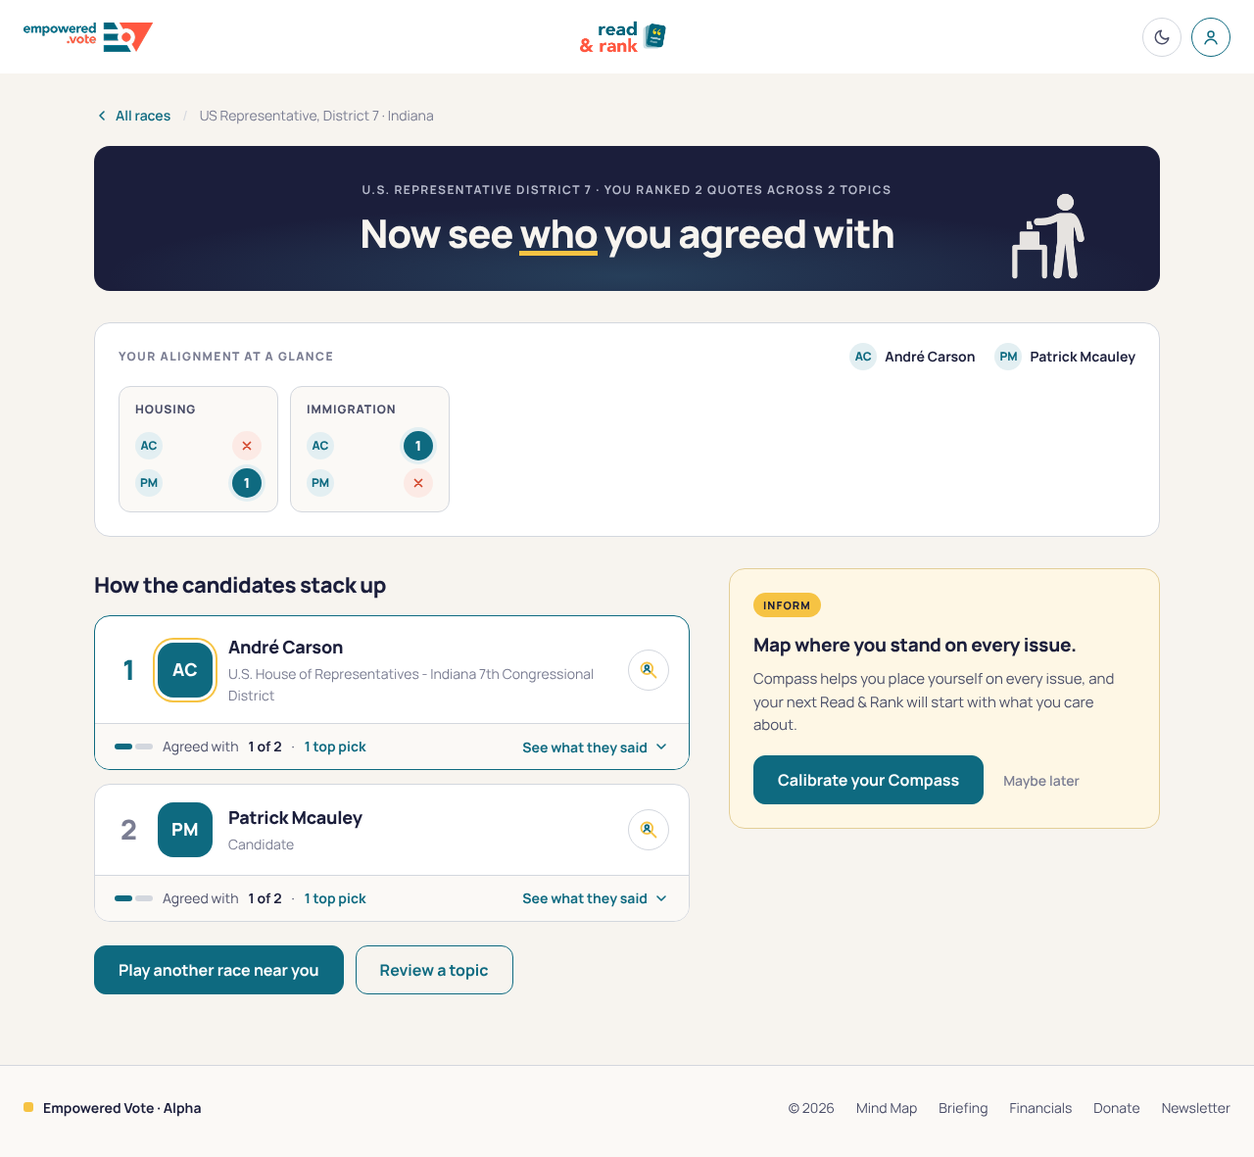
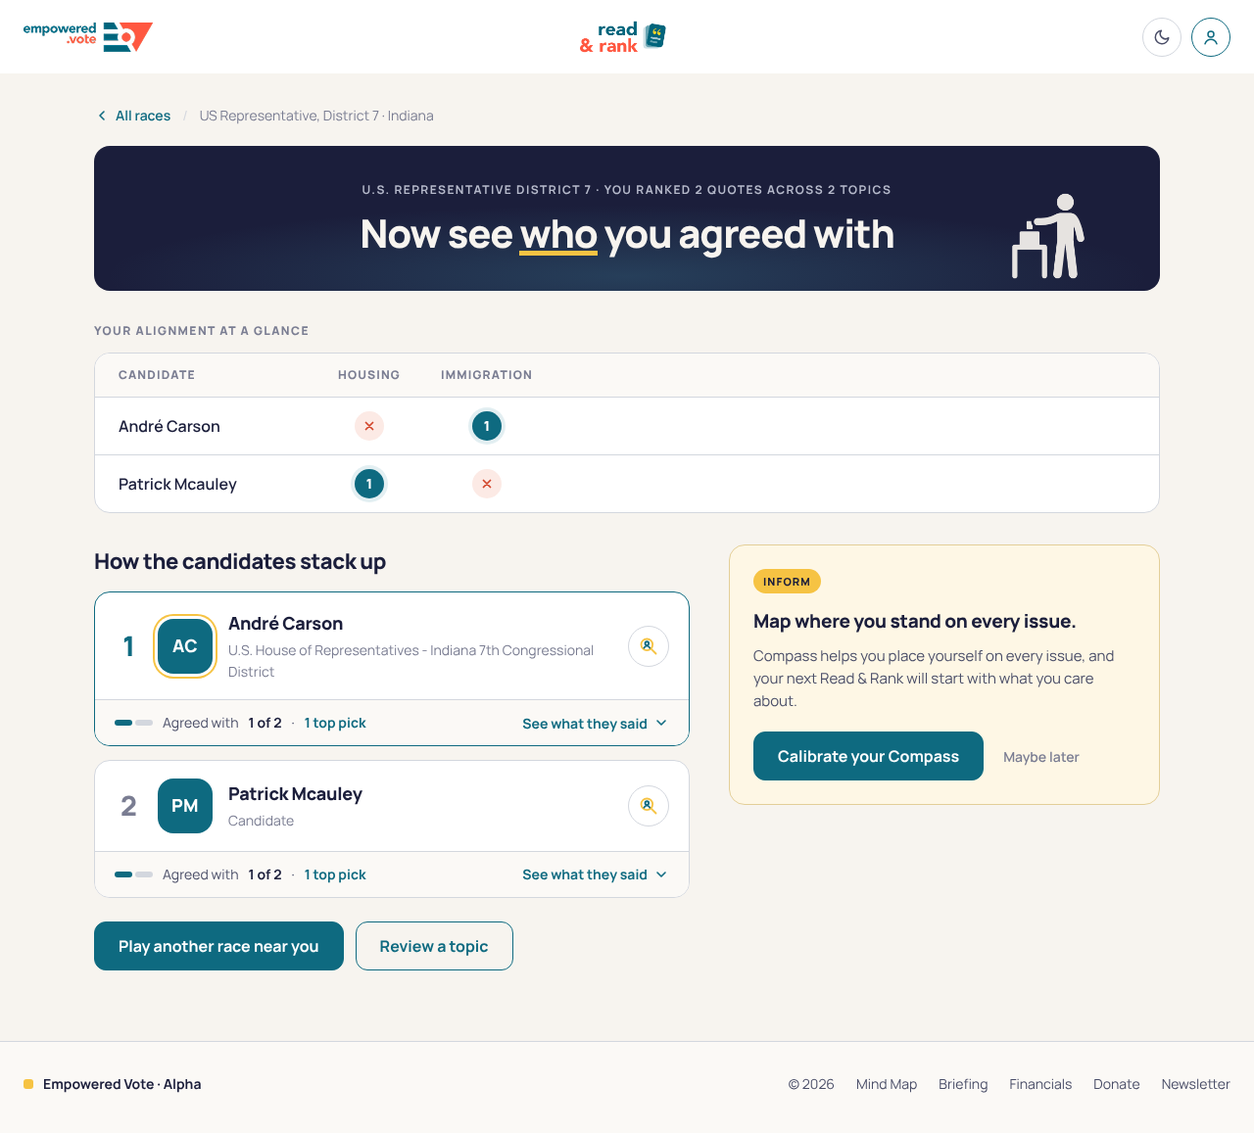
docs: alignment-at-a-glance as a full-width table on the ballot screen
Claude-Session: https://claude.ai/code/session_01DwfCu4GsxXBrSLCryEySUF

diff --git a/docs/design/readrank-ux-redesign/prototype/index.html b/docs/design/readrank-ux-redesign/prototype/index.html
@@ -1053,19 +1053,30 @@
   #s-ballot h2.title { margin: 40px 0 14px; font-size: 22px; font-weight: 800; letter-spacing: -.02em; }
 
   
-  #s-ballot .glance { margin-top: 32px; background: var(--surface); border: 1px solid var(--line); border-radius: 16px; padding: 20px 24px 24px; }
-  #s-ballot .glance-head { display: flex; flex-wrap: wrap; align-items: center; justify-content: space-between; gap: 10px 24px; margin-bottom: 16px; }
-  #s-ballot .glance .label { margin: 0; }
-  #s-ballot .glance-key { list-style: none; margin: 0; padding: 0; display: flex; flex-wrap: wrap; gap: 8px 20px; font-size: 14px; font-weight: 700; }
-  #s-ballot .glance-key li { display: flex; align-items: center; gap: 8px; min-width: 0; }
-  #s-ballot .glance-grid { list-style: none; margin: 0; padding: 0; display: grid; grid-template-columns: repeat(auto-fill, minmax(150px, 1fr)); gap: 12px; }
-  #s-ballot .topic-tile { min-width: 0; background: var(--surface-2); border: 1px solid var(--line); border-radius: 12px; padding: 14px 16px; }
-  #s-ballot .topic-tile h3 { margin: 0 0 12px; font-size: 12px; font-weight: 800; letter-spacing: .08em; text-transform: uppercase; color: var(--ink-2); overflow-wrap: anywhere; }
-  #s-ballot .topic-tile ul { list-style: none; margin: 0; padding: 0; display: grid; gap: 8px; }
-  #s-ballot .topic-tile li { display: flex; align-items: center; justify-content: space-between; gap: 8px; }
-  #s-ballot .glance .ini { width: 28px; height: 28px; font-size: 12px; }
-  #s-ballot .topic-tile .mark { width: 30px; height: 30px; }
-  #s-ballot .glance-empty { margin: 0; color: var(--ink-3); font-size: 14px; }
+  #s-ballot .glance { margin-top: 32px; }
+  #s-ballot .glance .label { margin: 0 0 12px; }
+  #s-ballot .glance-wrap { background: var(--surface); border: 1px solid var(--line); border-radius: 16px; overflow: hidden; }
+  #s-ballot .glance-table { width: 100%; border-collapse: collapse; }
+  #s-ballot .glance-table th, #s-ballot .glance-table td { padding: 14px 24px; text-align: left; }
+  #s-ballot .glance-table thead > tr > * { font-size: 12px; font-weight: 800; letter-spacing: .1em; text-transform: uppercase; color: var(--ink-3); line-height: 1.35; border-bottom: 1px solid var(--line); background: var(--surface-2); vertical-align: middle; }
+  #s-ballot .glance-table thead th.topic { text-align: center; width: 120px; padding-inline: 12px; }
+  #s-ballot .glance-table .cand-col { width: 220px; }
+  #s-ballot .glance-table tbody tr + tr > * { border-top: 1px solid var(--line); }
+  #s-ballot .glance-table tbody th { font-weight: 600; font-size: 16px; }
+  #s-ballot .glance-table td { text-align: center; padding-inline: 12px; }
+  #s-ballot .glance-table .fill { width: auto; padding: 0; }
+  #s-ballot .glance-empty { color: var(--ink-3); font-size: 14px; }
+  #s-ballot .glance-table .mark { width: 30px; height: 30px; }
+  
+  #s-ballot .glance-table.stacked thead { position: absolute; width: 1px; height: 1px; overflow: hidden; clip: rect(0 0 0 0); }
+  #s-ballot .glance-table.stacked tbody tr { display: flex; flex-wrap: wrap; align-items: center; gap: 10px 20px; padding: 16px 20px; }
+  #s-ballot .glance-table.stacked tbody tr + tr { border-top: 1px solid var(--line); }
+  #s-ballot .glance-table.stacked tbody tr + tr > * { border-top: 0; }
+  #s-ballot .glance-table.stacked tbody th { flex: 1 0 100%; padding: 0; }
+  #s-ballot .glance-table.stacked td { display: inline-flex; align-items: center; gap: 8px; padding: 0; }
+  #s-ballot .glance-table.stacked td::before { content: attr(data-topic); font-size: 11px; font-weight: 800; letter-spacing: .08em; text-transform: uppercase; color: var(--ink-2); }
+  #s-ballot .glance-table.stacked .fill { display: none; }
+  #s-ballot .glance-table.stacked td.glance-empty::before { content: none; }
   #s-ballot .ini { width: 34px; height: 34px; border-radius: 50%; display: grid; place-items: center; font-size: 13px; font-weight: 800; background: var(--teal-tint); color: var(--teal); flex: none; }
   #s-ballot .mark { display: inline-grid; place-items: center; width: 34px; height: 34px; border-radius: 50%; scale: 0; }
   #s-ballot .reveal.in .mark { animation: pop .4s cubic-bezier(.3,1.6,.5,1) forwards; animation-delay: calc(.6s + var(--d, 0) * 120ms); }
@@ -1169,9 +1180,6 @@
     #s-ballot .inform-actions { grid-column: 1; grid-row: auto; margin-top: 10px; display: flex; flex-wrap: wrap; align-items: center; gap: 10px 16px; }
     #s-ballot .inform .btn { white-space: normal; text-align: center; }
     #s-ballot .end .btn { width: 100%; }
-    #s-ballot .glance { padding: 16px; }
-    #s-ballot .glance-grid { grid-template-columns: repeat(auto-fill, minmax(130px, 1fr)); gap: 10px; }
-    #s-ballot .topic-tile { padding: 12px; }
     #s-ballot footer .wrap { flex-direction: column; align-items: start; }
   }
   @media (prefers-reduced-motion: reduce) {
@@ -2783,17 +2791,18 @@
       </section>
 
       <section class="glance" style="--i:1" aria-labelledby="glance-title">
-        <div class="glance-head">
-          <h2 class="label" id="glance-title">Your alignment at a glance</h2>
-          <ul class="glance-key">
-            <li><span class="ini" aria-hidden="true">AC</span>André Carson</li>
-            <li><span class="ini" aria-hidden="true">PM</span>Patrick Mcauley</li>
-          </ul>
+        <h2 class="label" id="glance-title">Your alignment at a glance</h2>
+        <div class="glance-wrap">
+          <table class="glance-table">
+            <thead>
+              <tr><th scope="col" class="cand-col">Candidate</th><th scope="col" class="topic">Housing</th><th scope="col" class="topic">Immigration</th><td class="fill" aria-hidden="true"></td></tr>
+            </thead>
+            <tbody>
+              <tr><th scope="row">André Carson</th><td data-topic="Housing"><span class="mark no" style="--d:0" role="img" aria-label="Disagreed"><svg width="14" height="14" viewBox="0 0 24 24" fill="none" stroke="currentColor" stroke-width="3" stroke-linecap="round" aria-hidden="true"><path d="M6 6l12 12M18 6L6 18"/></svg></span></td><td data-topic="Immigration"><span class="mark top" style="--d:1" role="img" aria-label="Your number 1 pick">1</span></td><td class="fill" aria-hidden="true"></td></tr>
+              <tr><th scope="row">Patrick Mcauley</th><td data-topic="Housing"><span class="mark top" style="--d:2" role="img" aria-label="Your number 1 pick">1</span></td><td data-topic="Immigration"><span class="mark no" style="--d:3" role="img" aria-label="Disagreed"><svg width="14" height="14" viewBox="0 0 24 24" fill="none" stroke="currentColor" stroke-width="3" stroke-linecap="round" aria-hidden="true"><path d="M6 6l12 12M18 6L6 18"/></svg></span></td><td class="fill" aria-hidden="true"></td></tr>
+            </tbody>
+          </table>
         </div>
-        <ul class="glance-grid">
-            <li class="topic-tile"><h3>Housing</h3><ul><li><span class="ini" aria-hidden="true">AC</span><span class="sr">André Carson: </span><span class="mark no" style="--d:0" role="img" aria-label="Disagreed"><svg width="14" height="14" viewBox="0 0 24 24" fill="none" stroke="currentColor" stroke-width="3" stroke-linecap="round" aria-hidden="true"><path d="M6 6l12 12M18 6L6 18"/></svg></span></li><li><span class="ini" aria-hidden="true">PM</span><span class="sr">Patrick Mcauley: </span><span class="mark top" style="--d:1" role="img" aria-label="Your number 1 pick">1</span></li></ul></li>
-            <li class="topic-tile"><h3>Immigration</h3><ul><li><span class="ini" aria-hidden="true">AC</span><span class="sr">André Carson: </span><span class="mark top" style="--d:2" role="img" aria-label="Your number 1 pick">1</span></li><li><span class="ini" aria-hidden="true">PM</span><span class="sr">Patrick Mcauley: </span><span class="mark no" style="--d:3" role="img" aria-label="Disagreed"><svg width="14" height="14" viewBox="0 0 24 24" fill="none" stroke="currentColor" stroke-width="3" stroke-linecap="round" aria-hidden="true"><path d="M6 6l12 12M18 6L6 18"/></svg></span></li></ul></li>
-        </ul>
       </section>
 
       <div class="layout">
@@ -4183,6 +4192,14 @@
     var LENS = '<svg width="20" height="20" viewBox="0 0 24 24" fill="none" stroke="currentColor" stroke-width="2.2" stroke-linecap="round" stroke-linejoin="round" aria-hidden="true"><circle cx="10" cy="10" r="7" class="lens" stroke="currentColor"/><circle cx="10" cy="8.5" r="2.2"/><path d="M6.5 14c.8-1.6 2-2.4 3.5-2.4s2.7.8 3.5 2.4"/><path d="M15.5 15.5L21 21" class="lens" stroke="currentColor"/></svg>';
     var CHEV = '<svg width="16" height="16" viewBox="0 0 24 24" fill="none" stroke="currentColor" stroke-width="2.4" stroke-linecap="round" stroke-linejoin="round" aria-hidden="true"><path d="M6 9l6 6 6-6"/></svg>';
     function esc(t) { var d = document.createElement('div'); d.textContent = t; return d.innerHTML; }
+    // Stack the alignment table when its topic columns don't fit the width (no sideways scrolling).
+    function fitGlance() {
+      var wrap = ballot.querySelector('.glance-wrap'), table = wrap.querySelector('.glance-table');
+      if (!wrap.clientWidth) return;
+      table.classList.remove('stacked');
+      table.classList.toggle('stacked', innerWidth <= 560 || table.scrollWidth > wrap.clientWidth + 1);
+    }
+    if (window.ResizeObserver) new ResizeObserver(fitGlance).observe(ballot.querySelector('.glance-wrap'));
     function plural(n, w) { return n + ' ' + w + (n === 1 ? '' : 's'); }
 
     // Build the ballot for the race picked earlier (window.RR) from the rankings made on the
@@ -4210,20 +4227,21 @@
       });
 
       var d = 0;
-      ballot.querySelector('.glance-key').innerHTML = ids.map(function (c) {
-        var who = race.candidates[c];
-        return '<li><span class="ini" aria-hidden="true">' + esc(who.ini) + '</span>' + esc(who.name) + '</li>';
-      }).join('');
-      ballot.querySelector('.glance-grid').innerHTML = ranked.length ? ranked.map(function (x) {
-        return '<li class="topic-tile"><h3>' + esc(x.t.name) + '</h3><ul>' + ids.map(function (c) {
-          var who = race.candidates[c], i = x.r.agreed.indexOf(c), cell;
-          if (i === 0) cell = '<span class="mark top" style="--d:' + (d++) + '" role="img" aria-label="Your number 1 pick">1</span>';
-          else if (i > 0) cell = '<span class="mark rank" style="--d:' + (d++) + '" role="img" aria-label="Agreed, ranked ' + (i + 1) + '">' + (i + 1) + '</span>';
-          else if (x.r.disagreed.indexOf(c) >= 0) cell = '<span class="mark no" style="--d:' + (d++) + '" role="img" aria-label="Disagreed">' + XMARK + '</span>';
-          else cell = '<span class="mark none" style="--d:' + (d++) + '" role="img" aria-label="No quote">–</span>';
-          return '<li><span class="ini" aria-hidden="true">' + esc(who.ini) + '</span><span class="sr">' + esc(who.name) + ': </span>' + cell + '</li>';
-        }).join('') + '</ul></li>';
-      }).join('') : '<li><p class="glance-empty">Rank a topic to see your alignment.</p></li>';
+      var FILL = '<td class="fill" aria-hidden="true"></td>';
+      ballot.querySelector('.glance-table thead').innerHTML = '<tr><th scope="col" class="cand-col">Candidate</th>' +
+        ranked.map(function (x) { return '<th scope="col" class="topic">' + esc(x.t.name) + '</th>'; }).join('') + FILL + '</tr>';
+      ballot.querySelector('.glance-table tbody').innerHTML = ranked.length ? ids.map(function (c) {
+        return '<tr><th scope="row">' + esc(race.candidates[c].name) + '</th>' +
+          ranked.map(function (x) {
+            var i = x.r.agreed.indexOf(c), cell;
+            if (i === 0) cell = '<span class="mark top" style="--d:' + (d++) + '" role="img" aria-label="Your number 1 pick">1</span>';
+            else if (i > 0) cell = '<span class="mark rank" style="--d:' + (d++) + '" role="img" aria-label="Agreed, ranked ' + (i + 1) + '">' + (i + 1) + '</span>';
+            else if (x.r.disagreed.indexOf(c) >= 0) cell = '<span class="mark no" style="--d:' + (d++) + '" role="img" aria-label="Disagreed">' + XMARK + '</span>';
+            else cell = '<span class="mark none" style="--d:' + (d++) + '" role="img" aria-label="No quote">–</span>';
+            return '<td data-topic="' + esc(x.t.name) + '">' + cell + '</td>';
+          }).join('') + FILL + '</tr>';
+      }).join('') : '<tr><td class="glance-empty" colspan="2">Rank a topic to see your alignment.</td></tr>';
+      fitGlance();
 
       stats.sort(function (a, b) { return b.top - a.top || b.agree - a.agree || a.order - b.order; });
       ballot.querySelector('.stack').innerHTML = stats.map(function (st, rank) {

diff --git a/docs/design/readrank-ux-redesign/prototype/ballot.html b/docs/design/readrank-ux-redesign/prototype/ballot.html
@@ -160,20 +160,31 @@
   .label { margin: 40px 0 12px; font-size: 12px; font-weight: 800; letter-spacing: .12em; text-transform: uppercase; color: var(--ink-3); }
   h2.title { margin: 40px 0 14px; font-size: 22px; font-weight: 800; letter-spacing: -.02em; }
 
-  /* Alignment at a glance: full-width row of topic tiles that wraps */
-  .glance { margin-top: 32px; background: var(--surface); border: 1px solid var(--line); border-radius: 16px; padding: 20px 24px 24px; }
-  .glance-head { display: flex; flex-wrap: wrap; align-items: center; justify-content: space-between; gap: 10px 24px; margin-bottom: 16px; }
-  .glance .label { margin: 0; }
-  .glance-key { list-style: none; margin: 0; padding: 0; display: flex; flex-wrap: wrap; gap: 8px 20px; font-size: 14px; font-weight: 700; }
-  .glance-key li { display: flex; align-items: center; gap: 8px; min-width: 0; }
-  .glance-grid { list-style: none; margin: 0; padding: 0; display: grid; grid-template-columns: repeat(auto-fill, minmax(150px, 1fr)); gap: 12px; }
-  .topic-tile { min-width: 0; background: var(--surface-2); border: 1px solid var(--line); border-radius: 12px; padding: 14px 16px; }
-  .topic-tile h3 { margin: 0 0 12px; font-size: 12px; font-weight: 800; letter-spacing: .08em; text-transform: uppercase; color: var(--ink-2); overflow-wrap: anywhere; }
-  .topic-tile ul { list-style: none; margin: 0; padding: 0; display: grid; gap: 8px; }
-  .topic-tile li { display: flex; align-items: center; justify-content: space-between; gap: 8px; }
-  .glance .ini { width: 28px; height: 28px; font-size: 12px; }
-  .topic-tile .mark { width: 30px; height: 30px; }
-  .glance-empty { margin: 0; color: var(--ink-3); font-size: 14px; }
+  /* Alignment at a glance: full-width table. When the topics don't fit, rows stack and wrap (see fitGlance). */
+  .glance { margin-top: 32px; }
+  .glance .label { margin: 0 0 12px; }
+  .glance-wrap { background: var(--surface); border: 1px solid var(--line); border-radius: 16px; overflow: hidden; }
+  .glance-table { width: 100%; border-collapse: collapse; }
+  .glance-table th, .glance-table td { padding: 14px 24px; text-align: left; }
+  .glance-table thead > tr > * { font-size: 12px; font-weight: 800; letter-spacing: .1em; text-transform: uppercase; color: var(--ink-3); line-height: 1.35; border-bottom: 1px solid var(--line); background: var(--surface-2); vertical-align: middle; }
+  .glance-table thead th.topic { text-align: center; width: 120px; padding-inline: 12px; }
+  .glance-table .cand-col { width: 220px; }
+  .glance-table tbody tr + tr > * { border-top: 1px solid var(--line); }
+  .glance-table tbody th { font-weight: 600; font-size: 16px; }
+  .glance-table td { text-align: center; padding-inline: 12px; }
+  .glance-table .fill { width: auto; padding: 0; }
+  .glance-empty { color: var(--ink-3); font-size: 14px; }
+  .glance-table .mark { width: 30px; height: 30px; }
+  /* Stacked: each candidate becomes a row of labeled marks that wraps */
+  .glance-table.stacked thead { position: absolute; width: 1px; height: 1px; overflow: hidden; clip: rect(0 0 0 0); }
+  .glance-table.stacked tbody tr { display: flex; flex-wrap: wrap; align-items: center; gap: 10px 20px; padding: 16px 20px; }
+  .glance-table.stacked tbody tr + tr { border-top: 1px solid var(--line); }
+  .glance-table.stacked tbody tr + tr > * { border-top: 0; }
+  .glance-table.stacked tbody th { flex: 1 0 100%; padding: 0; }
+  .glance-table.stacked td { display: inline-flex; align-items: center; gap: 8px; padding: 0; }
+  .glance-table.stacked td::before { content: attr(data-topic); font-size: 11px; font-weight: 800; letter-spacing: .08em; text-transform: uppercase; color: var(--ink-2); }
+  .glance-table.stacked .fill { display: none; }
+  .glance-table.stacked td.glance-empty::before { content: none; }
   .ini { width: 34px; height: 34px; border-radius: 50%; display: grid; place-items: center; font-size: 13px; font-weight: 800; background: var(--teal-tint); color: var(--teal); flex: none; }
   .mark { display: inline-grid; place-items: center; width: 34px; height: 34px; border-radius: 50%; scale: 0; }
   .reveal.in .mark { animation: pop .4s cubic-bezier(.3,1.6,.5,1) forwards; animation-delay: calc(.6s + var(--d, 0) * 120ms); }
@@ -277,9 +288,6 @@
     .inform-actions { grid-column: 1; grid-row: auto; margin-top: 10px; display: flex; flex-wrap: wrap; align-items: center; gap: 10px 16px; }
     .inform .btn { white-space: normal; text-align: center; }
     .end .btn { width: 100%; }
-    .glance { padding: 16px; }
-    .glance-grid { grid-template-columns: repeat(auto-fill, minmax(130px, 1fr)); gap: 10px; }
-    .topic-tile { padding: 12px; }
     footer .wrap { flex-direction: column; align-items: start; }
   }
   @media (prefers-reduced-motion: reduce) {
@@ -407,17 +415,18 @@
       </section>
 
       <section class="glance" style="--i:1" aria-labelledby="glance-title">
-        <div class="glance-head">
-          <h2 class="label" id="glance-title">Your alignment at a glance</h2>
-          <ul class="glance-key">
-            <li><span class="ini" aria-hidden="true">AC</span>André Carson</li>
-            <li><span class="ini" aria-hidden="true">PM</span>Patrick Mcauley</li>
-          </ul>
+        <h2 class="label" id="glance-title">Your alignment at a glance</h2>
+        <div class="glance-wrap">
+          <table class="glance-table">
+            <thead>
+              <tr><th scope="col" class="cand-col">Candidate</th><th scope="col" class="topic">Housing</th><th scope="col" class="topic">Immigration</th><td class="fill" aria-hidden="true"></td></tr>
+            </thead>
+            <tbody>
+              <tr><th scope="row">André Carson</th><td data-topic="Housing"><span class="mark no" style="--d:0" role="img" aria-label="Disagreed"><svg width="14" height="14" viewBox="0 0 24 24" fill="none" stroke="currentColor" stroke-width="3" stroke-linecap="round" aria-hidden="true"><path d="M6 6l12 12M18 6L6 18"/></svg></span></td><td data-topic="Immigration"><span class="mark top" style="--d:1" role="img" aria-label="Your number 1 pick">1</span></td><td class="fill" aria-hidden="true"></td></tr>
+              <tr><th scope="row">Patrick Mcauley</th><td data-topic="Housing"><span class="mark top" style="--d:2" role="img" aria-label="Your number 1 pick">1</span></td><td data-topic="Immigration"><span class="mark no" style="--d:3" role="img" aria-label="Disagreed"><svg width="14" height="14" viewBox="0 0 24 24" fill="none" stroke="currentColor" stroke-width="3" stroke-linecap="round" aria-hidden="true"><path d="M6 6l12 12M18 6L6 18"/></svg></span></td><td class="fill" aria-hidden="true"></td></tr>
+            </tbody>
+          </table>
         </div>
-        <ul class="glance-grid">
-            <li class="topic-tile"><h3>Housing</h3><ul><li><span class="ini" aria-hidden="true">AC</span><span class="sr">André Carson: </span><span class="mark no" style="--d:0" role="img" aria-label="Disagreed"><svg width="14" height="14" viewBox="0 0 24 24" fill="none" stroke="currentColor" stroke-width="3" stroke-linecap="round" aria-hidden="true"><path d="M6 6l12 12M18 6L6 18"/></svg></span></li><li><span class="ini" aria-hidden="true">PM</span><span class="sr">Patrick Mcauley: </span><span class="mark top" style="--d:1" role="img" aria-label="Your number 1 pick">1</span></li></ul></li>
-            <li class="topic-tile"><h3>Immigration</h3><ul><li><span class="ini" aria-hidden="true">AC</span><span class="sr">André Carson: </span><span class="mark top" style="--d:2" role="img" aria-label="Your number 1 pick">1</span></li><li><span class="ini" aria-hidden="true">PM</span><span class="sr">Patrick Mcauley: </span><span class="mark no" style="--d:3" role="img" aria-label="Disagreed"><svg width="14" height="14" viewBox="0 0 24 24" fill="none" stroke="currentColor" stroke-width="3" stroke-linecap="round" aria-hidden="true"><path d="M6 6l12 12M18 6L6 18"/></svg></span></li></ul></li>
-        </ul>
       </section>
 
       <div class="layout">
@@ -540,6 +549,14 @@
     var LENS = '<svg width="20" height="20" viewBox="0 0 24 24" fill="none" stroke="currentColor" stroke-width="2.2" stroke-linecap="round" stroke-linejoin="round" aria-hidden="true"><circle cx="10" cy="10" r="7" class="lens" stroke="currentColor"/><circle cx="10" cy="8.5" r="2.2"/><path d="M6.5 14c.8-1.6 2-2.4 3.5-2.4s2.7.8 3.5 2.4"/><path d="M15.5 15.5L21 21" class="lens" stroke="currentColor"/></svg>';
     var CHEV = '<svg width="16" height="16" viewBox="0 0 24 24" fill="none" stroke="currentColor" stroke-width="2.4" stroke-linecap="round" stroke-linejoin="round" aria-hidden="true"><path d="M6 9l6 6 6-6"/></svg>';
     function esc(t) { var d = document.createElement('div'); d.textContent = t; return d.innerHTML; }
+    // Stack the alignment table when its topic columns don't fit the width (no sideways scrolling).
+    function fitGlance() {
+      var wrap = ballot.querySelector('.glance-wrap'), table = wrap.querySelector('.glance-table');
+      if (!wrap.clientWidth) return;
+      table.classList.remove('stacked');
+      table.classList.toggle('stacked', innerWidth <= 560 || table.scrollWidth > wrap.clientWidth + 1);
+    }
+    if (window.ResizeObserver) new ResizeObserver(fitGlance).observe(ballot.querySelector('.glance-wrap'));
     function plural(n, w) { return n + ' ' + w + (n === 1 ? '' : 's'); }
 
     // Build the ballot for the race picked earlier (window.RR) from the rankings made on the
@@ -567,20 +584,21 @@
       });
 
       var d = 0;
-      ballot.querySelector('.glance-key').innerHTML = ids.map(function (c) {
-        var who = race.candidates[c];
-        return '<li><span class="ini" aria-hidden="true">' + esc(who.ini) + '</span>' + esc(who.name) + '</li>';
-      }).join('');
-      ballot.querySelector('.glance-grid').innerHTML = ranked.length ? ranked.map(function (x) {
-        return '<li class="topic-tile"><h3>' + esc(x.t.name) + '</h3><ul>' + ids.map(function (c) {
-          var who = race.candidates[c], i = x.r.agreed.indexOf(c), cell;
-          if (i === 0) cell = '<span class="mark top" style="--d:' + (d++) + '" role="img" aria-label="Your number 1 pick">1</span>';
-          else if (i > 0) cell = '<span class="mark rank" style="--d:' + (d++) + '" role="img" aria-label="Agreed, ranked ' + (i + 1) + '">' + (i + 1) + '</span>';
-          else if (x.r.disagreed.indexOf(c) >= 0) cell = '<span class="mark no" style="--d:' + (d++) + '" role="img" aria-label="Disagreed">' + XMARK + '</span>';
-          else cell = '<span class="mark none" style="--d:' + (d++) + '" role="img" aria-label="No quote">–</span>';
-          return '<li><span class="ini" aria-hidden="true">' + esc(who.ini) + '</span><span class="sr">' + esc(who.name) + ': </span>' + cell + '</li>';
-        }).join('') + '</ul></li>';
-      }).join('') : '<li><p class="glance-empty">Rank a topic to see your alignment.</p></li>';
+      var FILL = '<td class="fill" aria-hidden="true"></td>';
+      ballot.querySelector('.glance-table thead').innerHTML = '<tr><th scope="col" class="cand-col">Candidate</th>' +
+        ranked.map(function (x) { return '<th scope="col" class="topic">' + esc(x.t.name) + '</th>'; }).join('') + FILL + '</tr>';
+      ballot.querySelector('.glance-table tbody').innerHTML = ranked.length ? ids.map(function (c) {
+        return '<tr><th scope="row">' + esc(race.candidates[c].name) + '</th>' +
+          ranked.map(function (x) {
+            var i = x.r.agreed.indexOf(c), cell;
+            if (i === 0) cell = '<span class="mark top" style="--d:' + (d++) + '" role="img" aria-label="Your number 1 pick">1</span>';
+            else if (i > 0) cell = '<span class="mark rank" style="--d:' + (d++) + '" role="img" aria-label="Agreed, ranked ' + (i + 1) + '">' + (i + 1) + '</span>';
+            else if (x.r.disagreed.indexOf(c) >= 0) cell = '<span class="mark no" style="--d:' + (d++) + '" role="img" aria-label="Disagreed">' + XMARK + '</span>';
+            else cell = '<span class="mark none" style="--d:' + (d++) + '" role="img" aria-label="No quote">–</span>';
+            return '<td data-topic="' + esc(x.t.name) + '">' + cell + '</td>';
+          }).join('') + FILL + '</tr>';
+      }).join('') : '<tr><td class="glance-empty" colspan="2">Rank a topic to see your alignment.</td></tr>';
+      fitGlance();
 
       stats.sort(function (a, b) { return b.top - a.top || b.agree - a.agree || a.order - b.order; });
       ballot.querySelector('.stack').innerHTML = stats.map(function (st, rank) {
